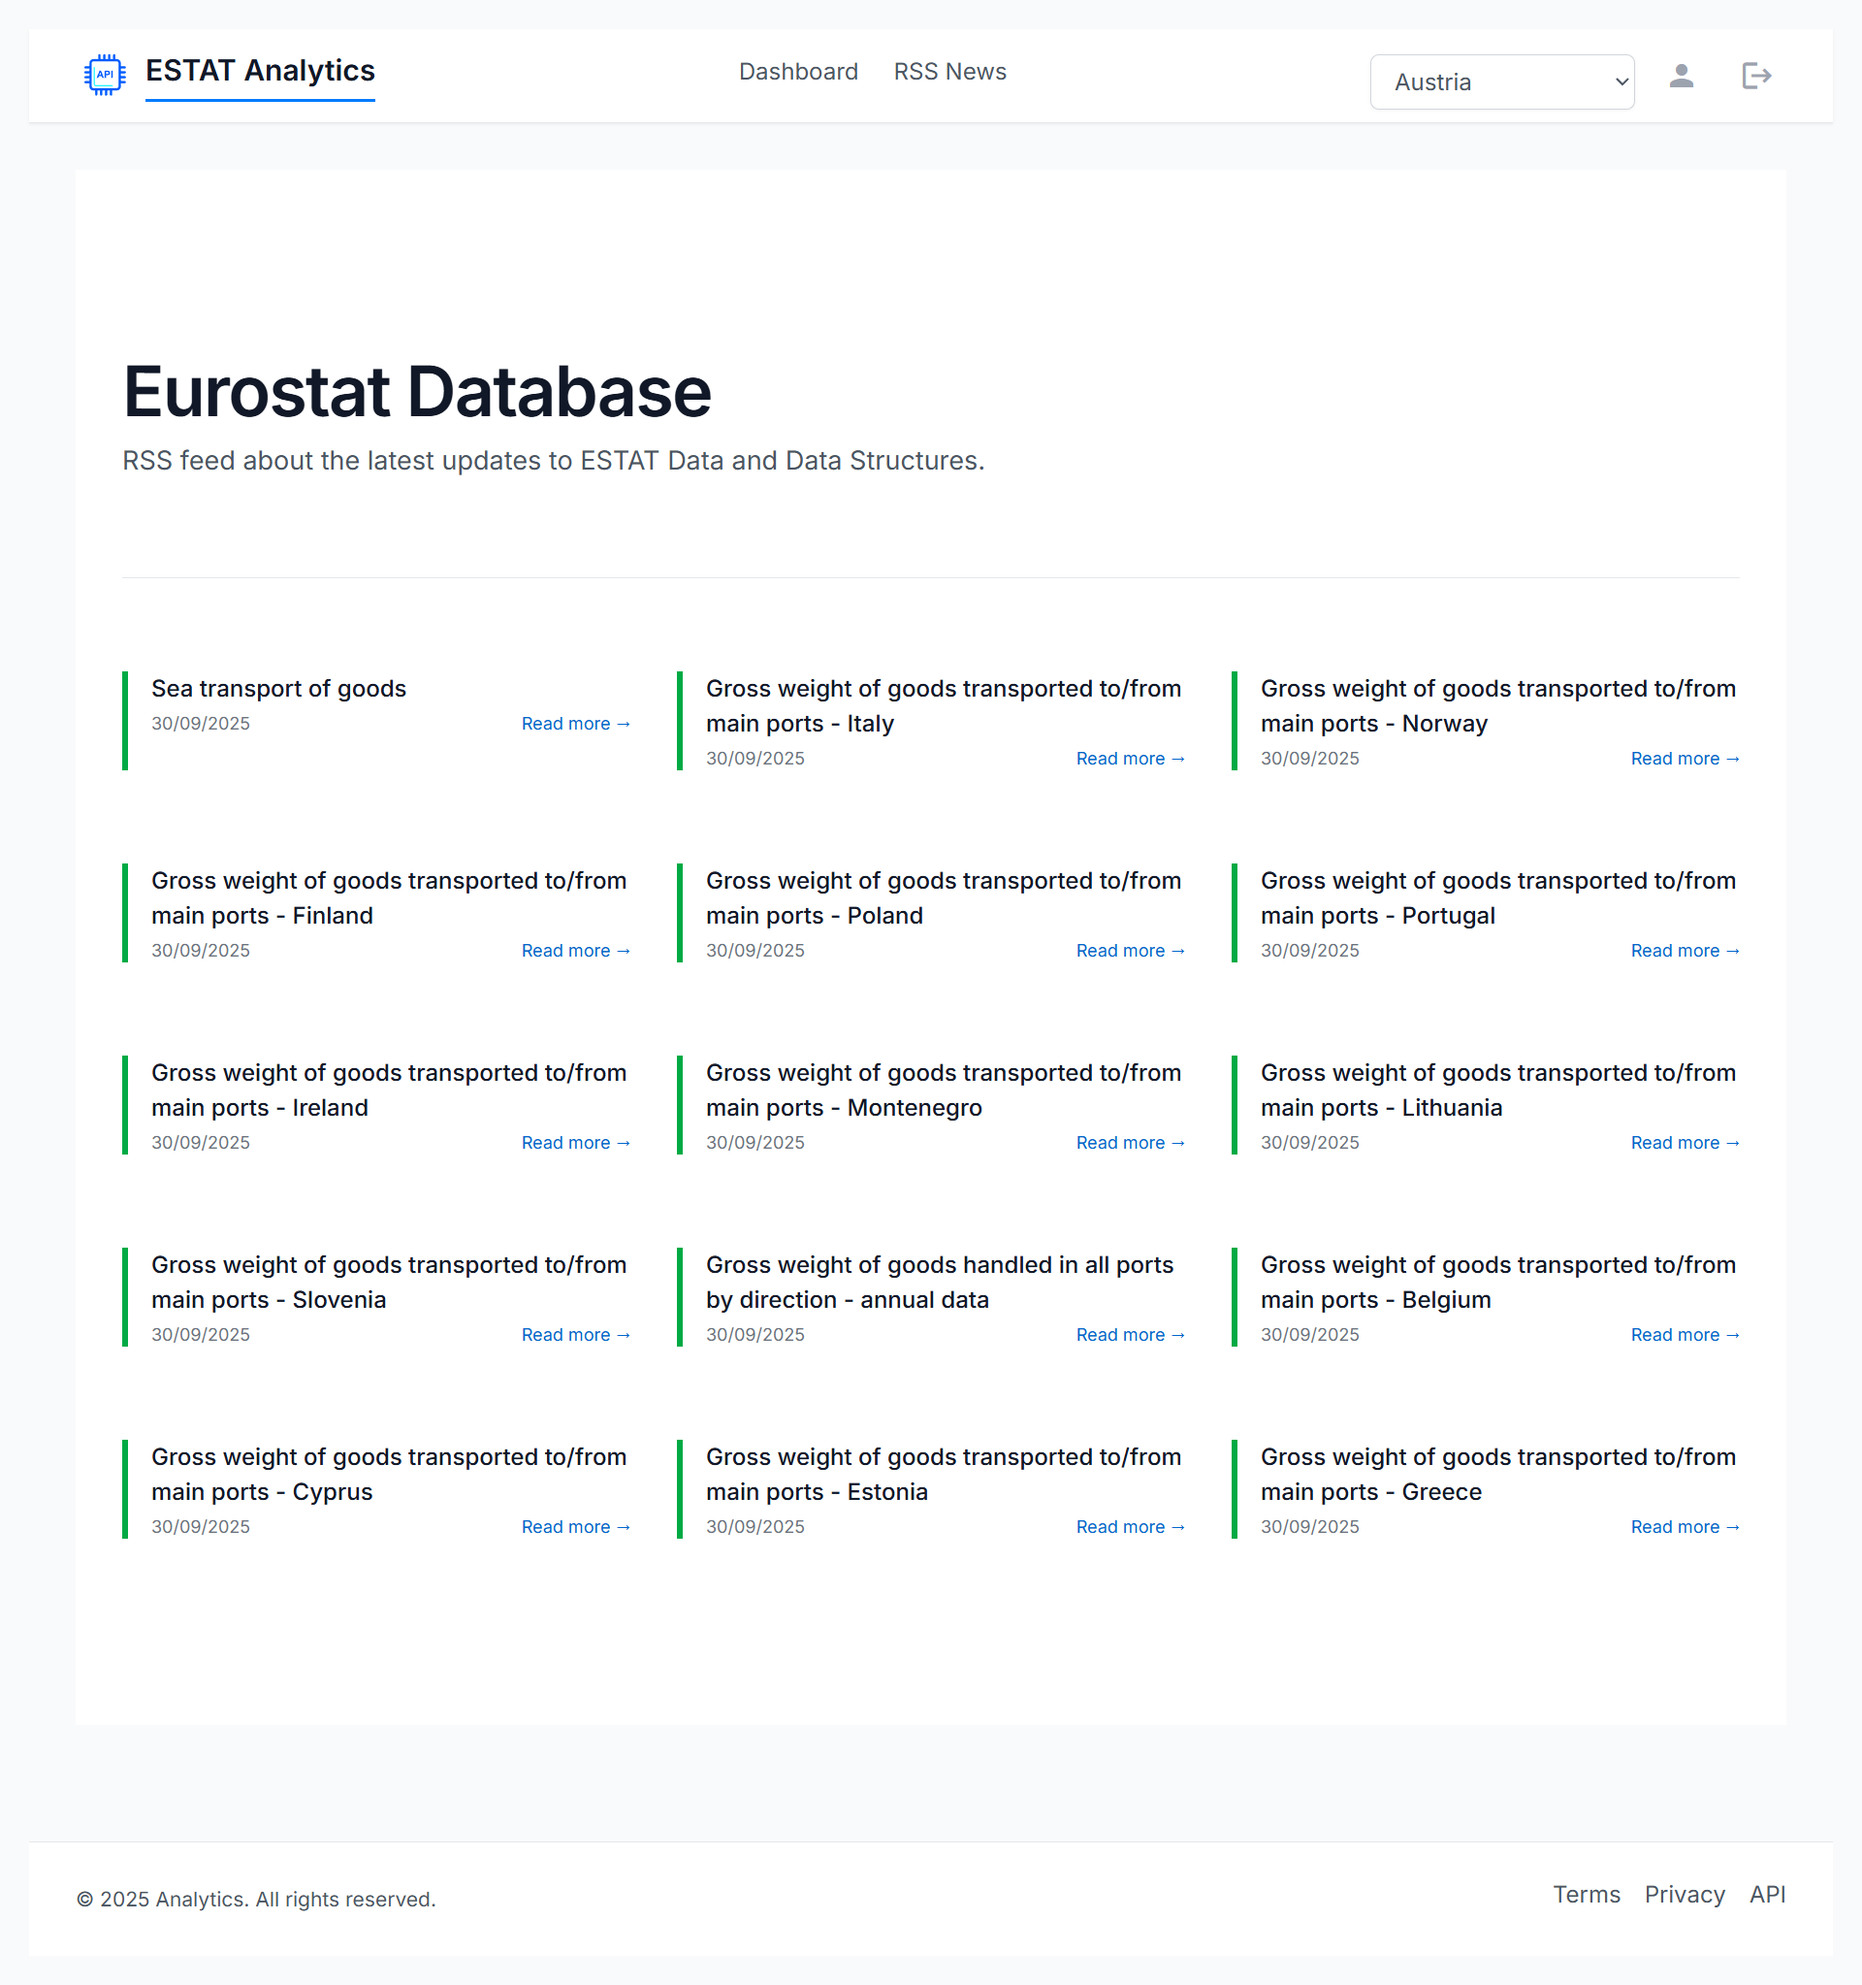
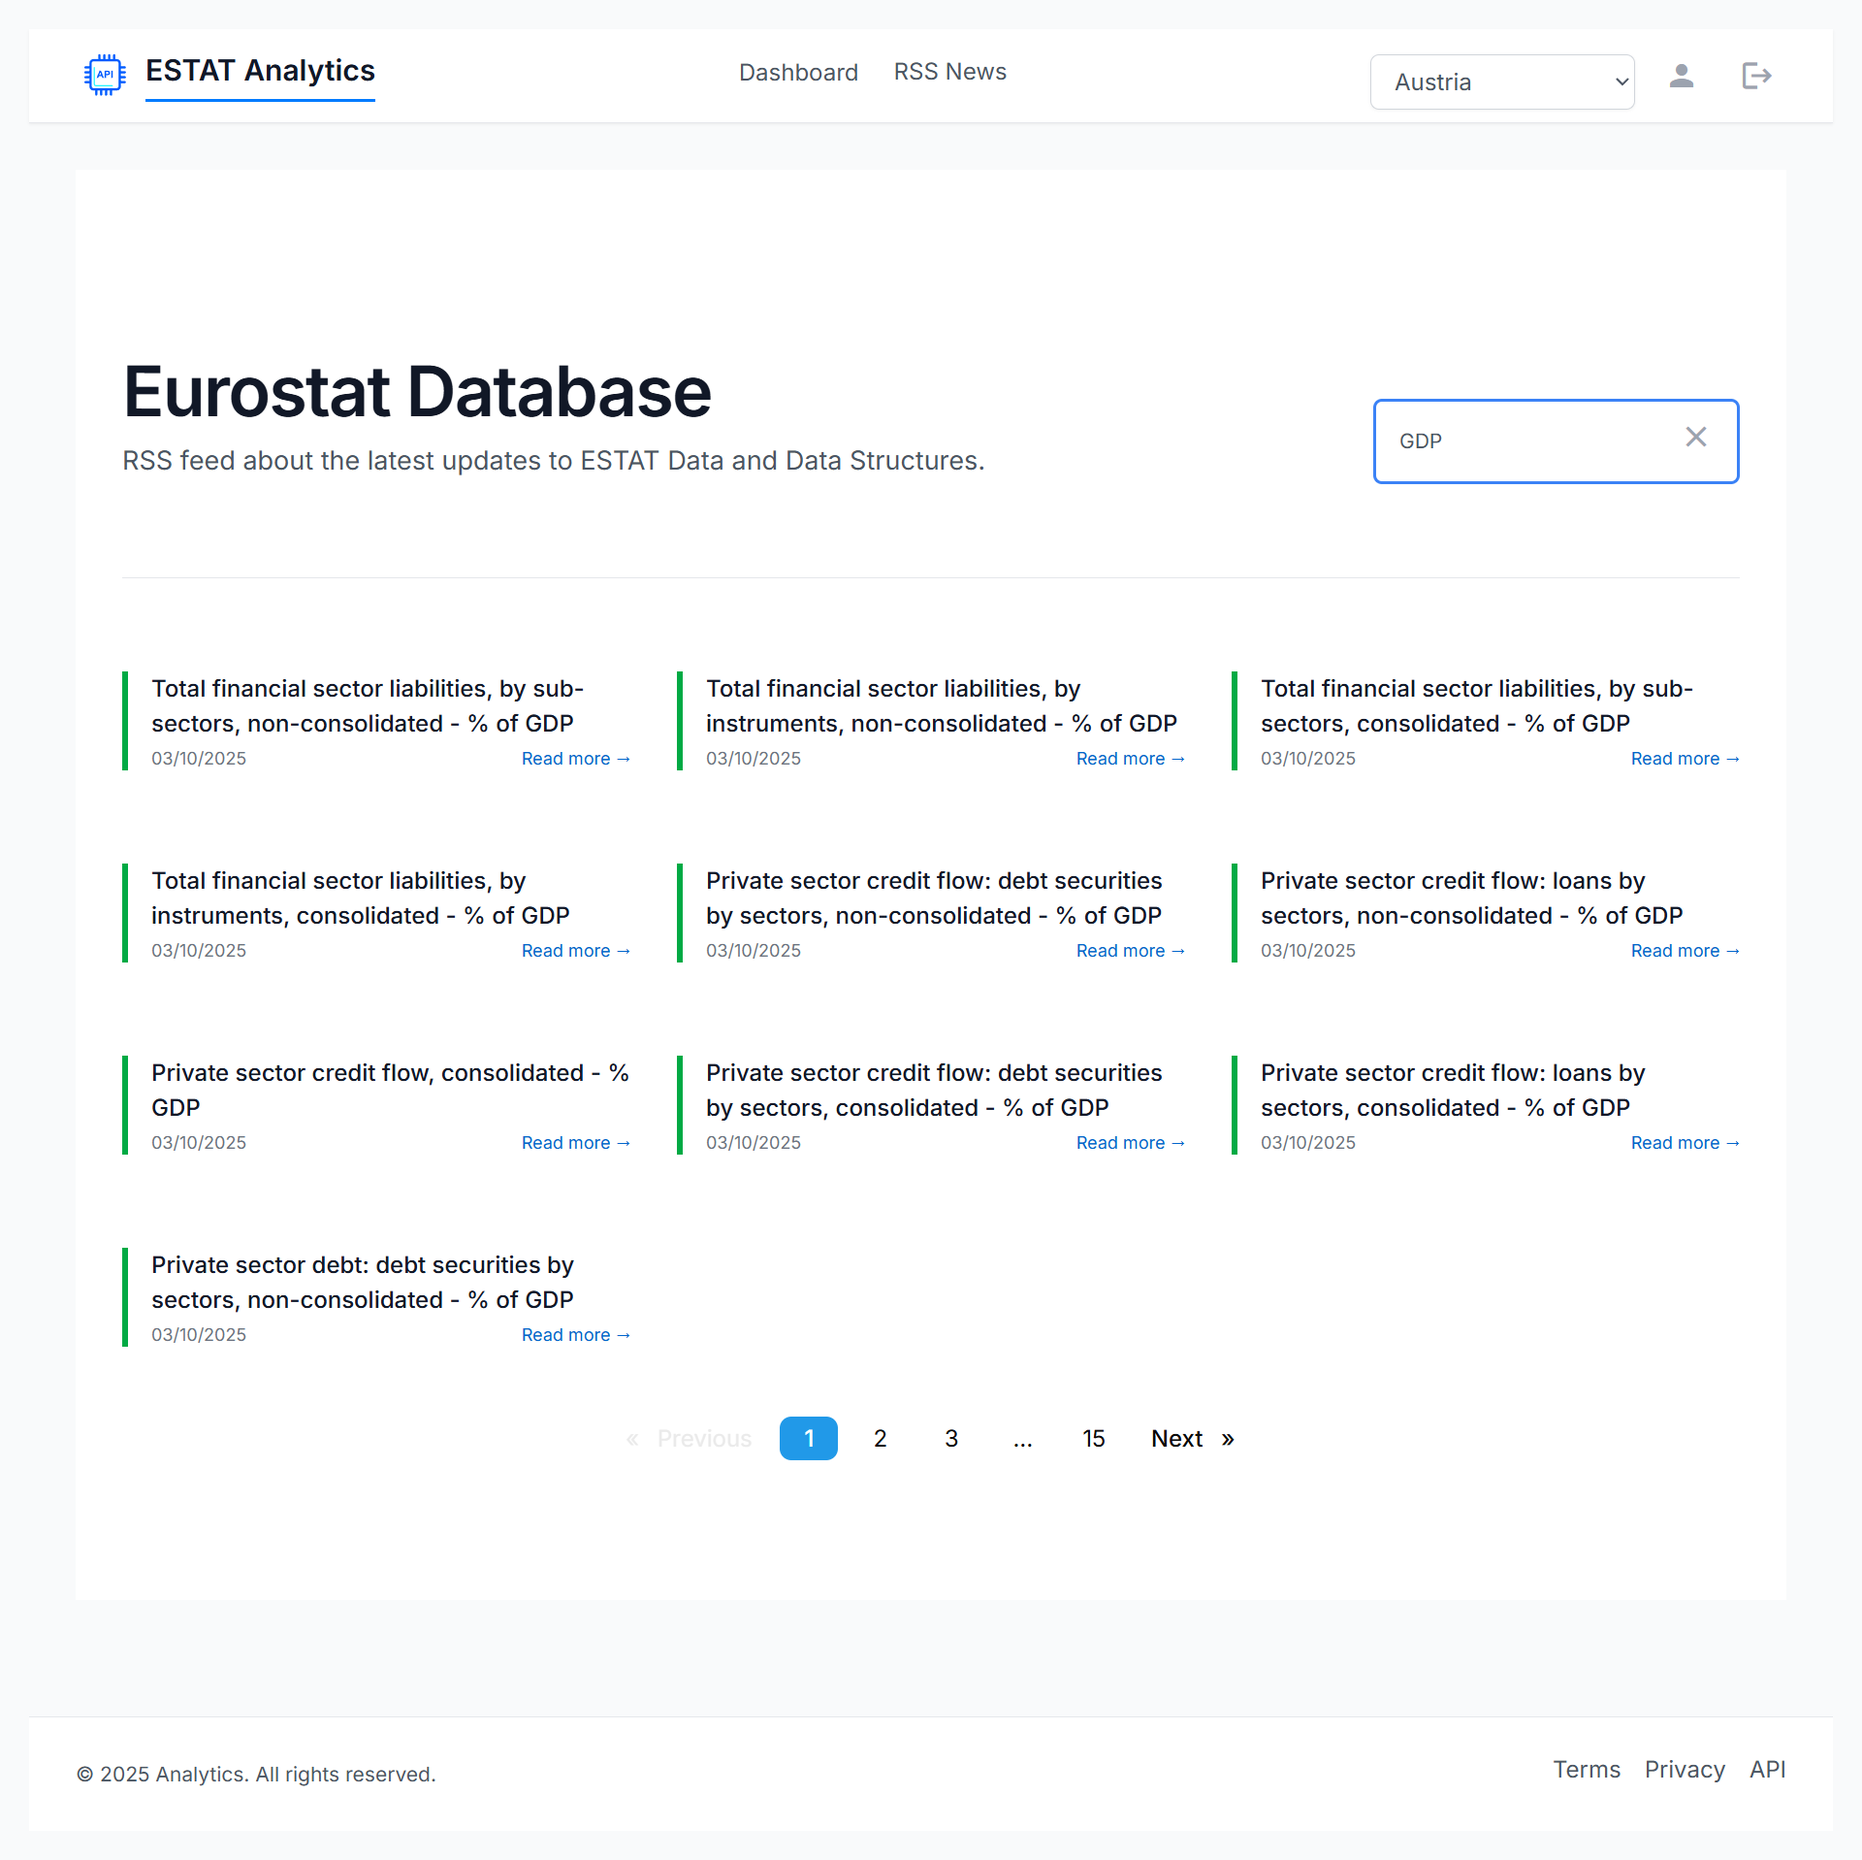
feat(doc): add documentation for client-side pagination and search functionality

diff --git a/README.md b/README.md
@@ -38,6 +38,8 @@ A dynamic tool for visualizing statistical data with Chart.js, powered by the Eu
 - **Real-time News Updates** - Converts XML RSS feeds into JSON and exposes them through reactive streams
 - **RxJS Powered** - Keeps news items up to date with RxJS observables
 - **Seamless Navigation** - Smooth navigation to both internal pages and external article links
+- **Client-side Pagination** - Efficient navigation through large datasets by splitting results into manageable pages directly in the browser, improving usability and performance  
+- **Search Functionality** - Dynamic filtering of displayed data based on user input, providing instant and responsive results without additional API requests  
 
 ### Application Preview
 
@@ -70,6 +72,7 @@ _Custom 404 error page_
 - **Styling:** CSS3 + Tailwind CSS 3.4.17
 - **HTTP Client:** Angular HttpClient
 - **XML Parser:** fast-xml-parser 5.2.5
+- **NGX Pagination**: 6.0.3
 
 ### Development Tools
 
@@ -210,11 +213,13 @@ App Module
 │       └── RSS News List
 └── Shared Module
     ├── Custom Button
+    ├── Pagination
     ├── Pipes
     ├── Recent Updates
     ├── RSS News
     ├── Select Menu
     ├── Sidebar
+    ├── Search Box
     └── Utilities
 ```
 
